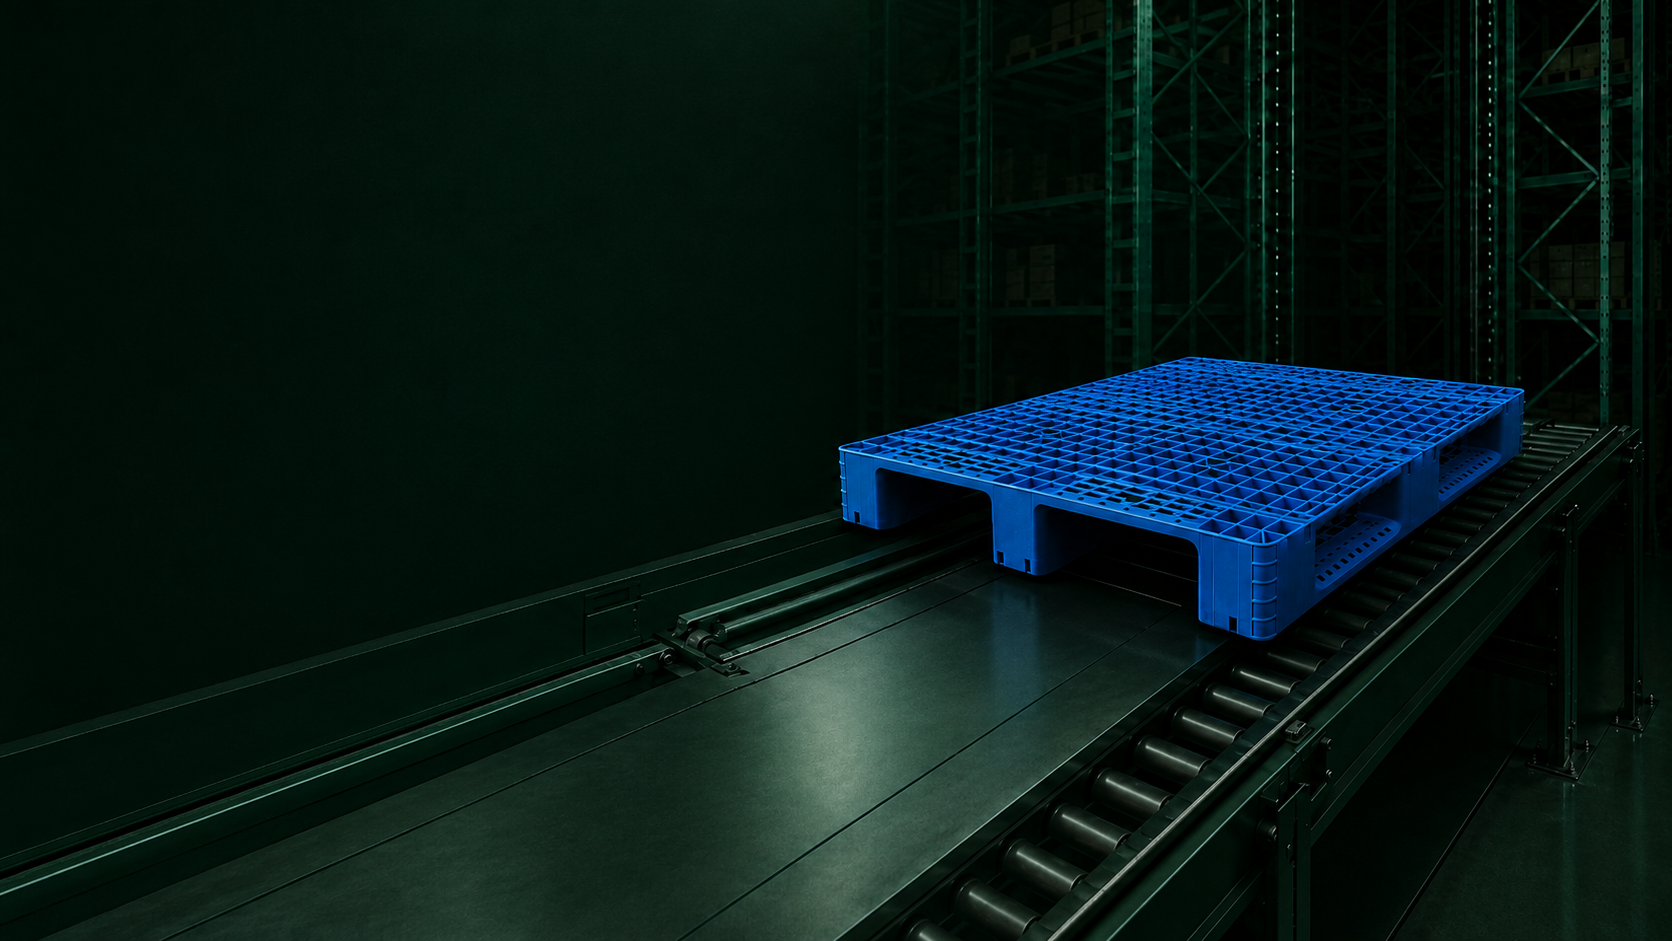
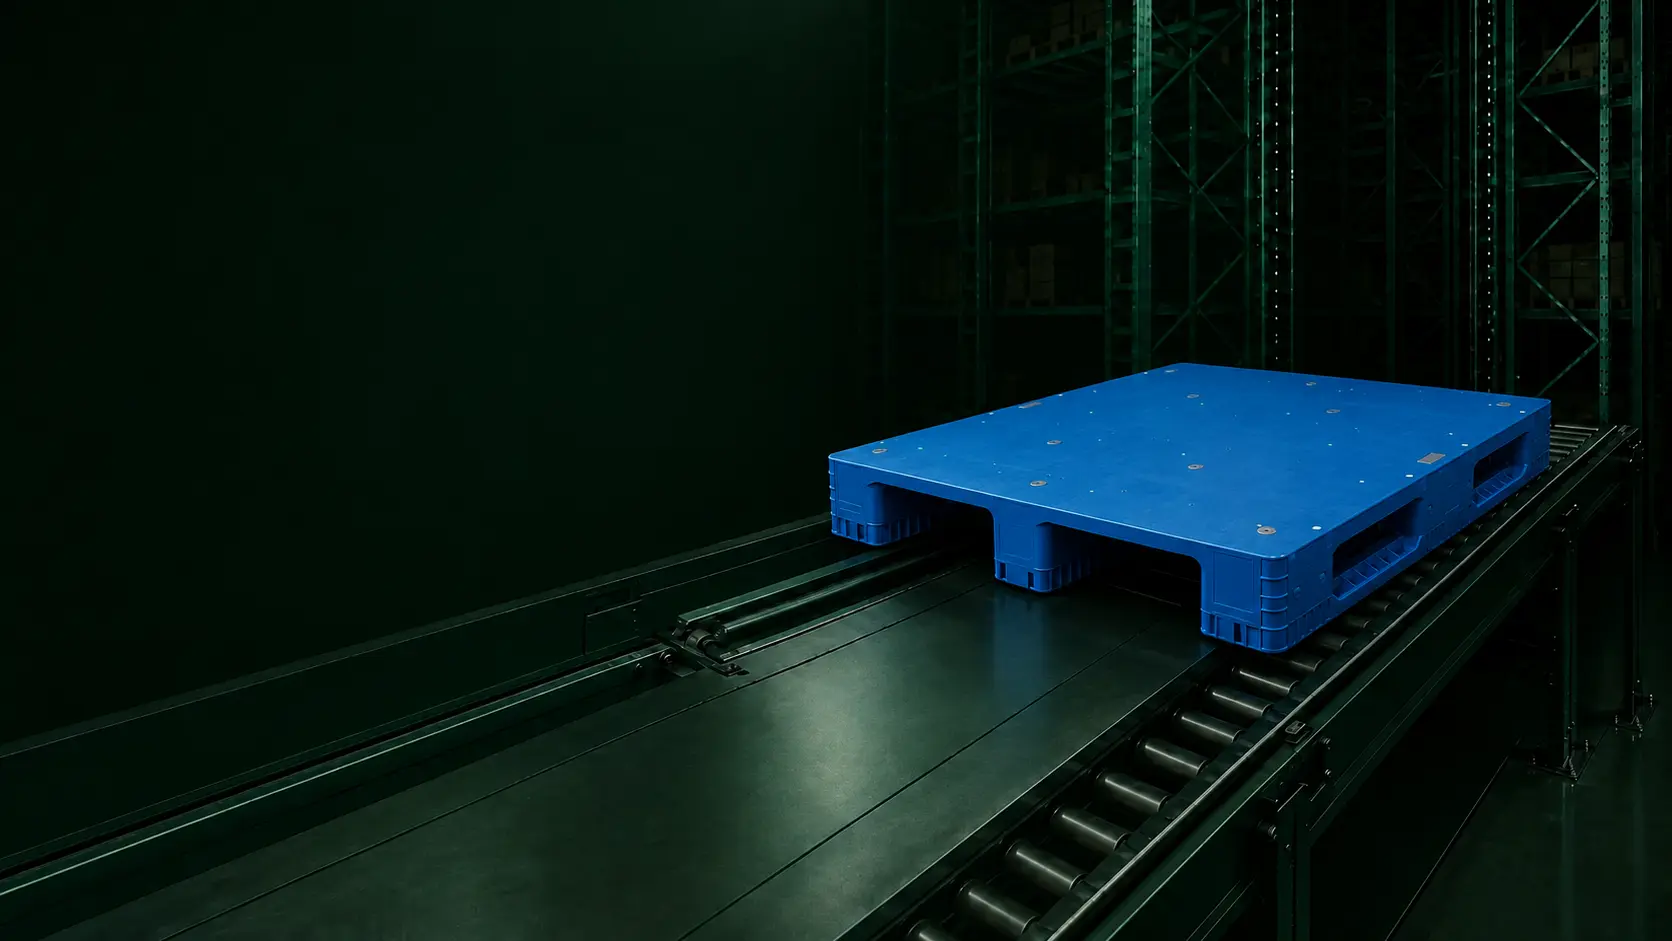
heor

diff --git a/assets/scss/pages/_storack.scss b/assets/scss/pages/_storack.scss
@@ -41,6 +41,21 @@ body { color: var(--on-surface); background: var(--surface); }
   isolation: isolate;
   background: var(--brand-dark);
 }
+.home-hero__slides {
+  position: absolute;
+  inset: 0;
+  display: flex;
+  transition: transform 600ms cubic-bezier(.22,.72,.18,1);
+  will-change: transform;
+  touch-action: pan-y;
+}
+.home-hero__slide {
+  position: relative;
+  flex: 0 0 100%;
+  min-width: 0;
+  height: 100%;
+  isolation: isolate;
+}
 .home-hero__bg {
   position: absolute;
   inset: 0;
@@ -50,7 +65,7 @@ body { color: var(--on-surface); background: var(--surface); }
   object-fit: cover;
   object-position: center;
 }
-.home-hero::before {
+.home-hero__slide::before {
   content: "";
   position: absolute;
   inset: 0;
@@ -62,7 +77,10 @@ body { color: var(--on-surface); background: var(--surface); }
     color-mix(in oklab, var(--brand-dark) 8%, transparent) 82%,
     transparent 100%);
 }
-.home-hero::after {
+.home-hero__slide--center::before {
+  background: color-mix(in oklab, var(--brand-dark) 58%, transparent);
+}
+.home-hero__slide::after {
   content: "";
   position: absolute;
   inset: 0;
@@ -120,6 +138,78 @@ body { color: var(--on-surface); background: var(--surface); }
   flex: 0 0 auto;
   background: var(--accent);
 }
+.home-hero__slide--center .home-hero__inner {
+  align-items: center;
+  text-align: center;
+}
+.home-hero__slide--center .home-hero__lockup {
+  max-width: 68rem;
+}
+.home-hero__slide--center .home-hero__title {
+  width: auto;
+  font-family: var(--font-sans);
+  font-size: clamp(2.25rem, 5vw, 4.75rem);
+  line-height: 1.12;
+  letter-spacing: -.045em;
+  text-transform: none;
+  transform: none;
+}
+.home-hero__slide--center .home-hero__tagline {
+  justify-items: center;
+  max-width: 62rem;
+  margin-inline: auto;
+  line-height: 1.8;
+  letter-spacing: .16em;
+}
+.home-hero__nav {
+  position: absolute;
+  top: 50%;
+  z-index: 3;
+  display: grid;
+  place-items: center;
+  width: 3.5rem;
+  height: 4.5rem;
+  padding: 0;
+  border: 0;
+  background: transparent;
+  color: var(--on-brand);
+  font-size: 3.75rem;
+  font-weight: 300;
+  line-height: 1;
+  cursor: pointer;
+  transform: translateY(-50%);
+  text-shadow: 0 2px 10px rgba(0,0,0,.45);
+}
+.home-hero__nav--prev { left: clamp(.25rem, 2vw, 1.75rem); }
+.home-hero__nav--next { right: clamp(.25rem, 2vw, 1.75rem); }
+.home-hero__dots {
+  position: absolute;
+  left: 50%;
+  bottom: 1.4rem;
+  z-index: 3;
+  display: flex;
+  gap: .7rem;
+  transform: translateX(-50%);
+}
+.home-hero__dot {
+  width: .7rem;
+  height: .7rem;
+  padding: 0;
+  border: 1px solid color-mix(in oklab, var(--on-brand) 75%, transparent);
+  border-radius: 50%;
+  background: transparent;
+  cursor: pointer;
+  transition: background-color var(--transition-base), transform var(--transition-base);
+}
+.home-hero__dot.is-active {
+  background: var(--on-brand);
+  transform: scale(1.15);
+}
+.home-hero__nav:focus-visible,
+.home-hero__dot:focus-visible {
+  outline: 2px solid var(--accent);
+  outline-offset: 3px;
+}
 .home-hero__eyebrow {
   display:inline-flex;
   align-items:center;
@@ -138,17 +228,27 @@ body { color: var(--on-surface); background: var(--surface); }
   .home-hero,
   .home-hero__inner { min-height:40rem; }
   .home-hero__bg { object-position:72% center; }
-  .home-hero::before {
+  .home-hero__slide::before {
     background:linear-gradient(90deg,
       color-mix(in oklab, var(--brand-dark) 74%, transparent) 0%,
       color-mix(in oklab, var(--brand-dark) 62%, transparent) 50%,
       color-mix(in oklab, var(--brand-dark) 32%, transparent) 78%,
       color-mix(in oklab, var(--brand-dark) 12%, transparent) 100%);
   }
+  .home-hero__slide--center::before {
+    background: color-mix(in oklab, var(--brand-dark) 64%, transparent);
+  }
   .home-hero__lockup { max-width:100%; }
   .home-hero__brand { font-size:clamp(4rem,23vw,6.2rem); }
   .home-hero__title { font-size:clamp(1.75rem,10.5vw,2.8rem); }
+  .home-hero__slide--center .home-hero__title { font-size:clamp(2rem,9vw,3.25rem); }
   .home-hero__tagline { max-width:24rem; letter-spacing:.19em; }
+  .home-hero__slide--center .home-hero__tagline { letter-spacing:.08em; }
+  .home-hero__nav { display:none; }
+}
+
+@media (prefers-reduced-motion: reduce) {
+  .home-hero__slides { transition: none; }
 }
 
 .home-values { margin-top:-2.5rem; position:relative; z-index:4; padding-block:0; }

diff --git a/layouts/partials/storack-home.html b/layouts/partials/storack-home.html
@@ -1,19 +1,43 @@
 <main class="home-page">
   {{ with .Params.home_hero }}
-  <section class="home-hero">
-    {{ with index .images 0 }}<img class="home-hero__bg" src="{{ . | relURL }}" alt="" fetchpriority="high">{{ end }}
-    <div class="container home-hero__inner">
-      <div class="home-hero__lockup">
-        <p class="home-hero__brand">{{ .brand | default "STORACK" }}</p>
-        <h1 class="home-hero__title">{{ .display_title | default "AS/RS PLASTIC PALLETS" }}</h1>
-        <p class="home-hero__tagline">{{ .display_tagline | default "ENGINEERED FOR AUTOMATION" }}</p>
-      </div>
-      <div class="home-hero__actions">
-        <a class="button" href="{{ .button.url | relLangURL }}">{{ .button.label }}</a>
-        {{ with .secondary_button }}<a class="button button--ghost" href="{{ .url | relLangURL }}">{{ .label }}</a>{{ end }}
-      </div>
+  {{ $hero := . }}
+  {{ $slides := .slides }}
+  <section class="home-hero" data-home-hero aria-roledescription="{{ if eq $.Lang "zh" }}轮播{{ else }}carousel{{ end }}" aria-label="{{ if eq $.Lang "zh" }}首页主视觉{{ else }}Homepage highlights{{ end }}">
+    <div class="home-hero__slides" data-home-hero-track aria-live="off">
+      {{ range $index, $slide := $slides }}
+      <article id="home-hero-slide-{{ $index }}" class="home-hero__slide home-hero__slide--{{ .alignment | default "left" }}{{ if eq $index 0 }} is-active{{ end }}" data-home-hero-slide aria-hidden="{{ if eq $index 0 }}false{{ else }}true{{ end }}" aria-label="{{ if eq $.Lang "zh" }}第 {{ add $index 1 }} 张，共 {{ len $slides }} 张{{ else }}Slide {{ add $index 1 }} of {{ len $slides }}{{ end }}"{{ if ne $index 0 }} inert{{ end }}>
+        <img class="home-hero__bg" src="{{ .image | relURL }}" alt=""{{ if eq $index 0 }} fetchpriority="high"{{ else }} loading="lazy"{{ end }}>
+        <div class="container home-hero__inner">
+          <div class="home-hero__lockup">
+            {{ with .brand }}<p class="home-hero__brand">{{ . }}</p>{{ end }}
+            {{ if eq $index 0 }}
+            <h1 class="home-hero__title">{{ .title }}</h1>
+            {{ else }}
+            <p class="home-hero__title">{{ .title }}</p>
+            {{ end }}
+            <p class="home-hero__tagline">{{ .tagline }}</p>
+          </div>
+          {{ if .show_actions }}
+          <div class="home-hero__actions">
+            <a class="button" href="{{ $hero.button.url | relLangURL }}">{{ $hero.button.label }}</a>
+            {{ with $hero.secondary_button }}<a class="button button--ghost" href="{{ .url | relLangURL }}">{{ .label }}</a>{{ end }}
+          </div>
+          {{ end }}
+        </div>
+      </article>
+      {{ end }}
     </div>
+    {{ if gt (len $slides) 1 }}
+    <button class="home-hero__nav home-hero__nav--prev" type="button" data-home-hero-prev aria-label="{{ if eq $.Lang "zh" }}上一张{{ else }}Previous slide{{ end }}">&#8249;</button>
+    <button class="home-hero__nav home-hero__nav--next" type="button" data-home-hero-next aria-label="{{ if eq $.Lang "zh" }}下一张{{ else }}Next slide{{ end }}">&#8250;</button>
+    <div class="home-hero__dots" role="group" aria-label="{{ if eq $.Lang "zh" }}选择轮播页{{ else }}Choose a slide{{ end }}">
+      {{ range $index, $slide := $slides }}
+      <button class="home-hero__dot{{ if eq $index 0 }} is-active{{ end }}" type="button" data-home-hero-dot data-slide-index="{{ $index }}" aria-label="{{ if eq $.Lang "zh" }}显示第 {{ add $index 1 }} 张{{ else }}Show slide {{ add $index 1 }}{{ end }}" aria-controls="home-hero-slide-{{ $index }}" aria-current="{{ if eq $index 0 }}true{{ else }}false{{ end }}"></button>
+      {{ end }}
+      </div>
+    {{ end }}
   </section>
+  <script src="{{ "js/home-hero.js" | relURL }}" defer></script>
   {{ end }}
 
   {{ with .Params.home_values }}

diff --git a/static/js/home-hero.js b/static/js/home-hero.js
@@ -1,0 +1,79 @@
+(() => {
+  const reducedMotion = window.matchMedia('(prefers-reduced-motion: reduce)');
+
+  document.querySelectorAll('[data-home-hero]').forEach((hero) => {
+    const track = hero.querySelector('[data-home-hero-track]');
+    const slides = [...hero.querySelectorAll('[data-home-hero-slide]')];
+    const dots = [...hero.querySelectorAll('[data-home-hero-dot]')];
+    const previous = hero.querySelector('[data-home-hero-prev]');
+    const next = hero.querySelector('[data-home-hero-next]');
+
+    if (!track || slides.length < 2) return;
+
+    let current = 0;
+    let timer;
+    let pointerStart;
+    let isHovered = false;
+    let isFocusWithin = false;
+
+    const show = (index) => {
+      current = (index + slides.length) % slides.length;
+      track.style.transform = `translate3d(-${current * 100}%, 0, 0)`;
+
+      slides.forEach((slide, slideIndex) => {
+        const isActive = slideIndex === current;
+        slide.classList.toggle('is-active', isActive);
+        slide.setAttribute('aria-hidden', String(!isActive));
+        slide.inert = !isActive;
+      });
+
+      dots.forEach((dot, dotIndex) => {
+        const isActive = dotIndex === current;
+        dot.classList.toggle('is-active', isActive);
+        dot.setAttribute('aria-current', String(isActive));
+      });
+    };
+
+    const stop = () => window.clearInterval(timer);
+    const start = () => {
+      stop();
+      if (reducedMotion.matches || document.hidden || isHovered || isFocusWithin) return;
+      timer = window.setInterval(() => show(current + 1), 6000);
+    };
+    const select = (index) => {
+      show(index);
+      start();
+    };
+
+    previous.addEventListener('click', () => select(current - 1));
+    next.addEventListener('click', () => select(current + 1));
+    dots.forEach((dot) => dot.addEventListener('click', () => select(Number(dot.dataset.slideIndex))));
+
+    hero.addEventListener('keydown', (event) => {
+      if (event.key === 'ArrowLeft') select(current - 1);
+      if (event.key === 'ArrowRight') select(current + 1);
+    });
+    hero.addEventListener('mouseenter', () => { isHovered = true; stop(); });
+    hero.addEventListener('mouseleave', () => { isHovered = false; start(); });
+    hero.addEventListener('focusin', () => { isFocusWithin = true; stop(); });
+    hero.addEventListener('focusout', (event) => {
+      if (hero.contains(event.relatedTarget)) return;
+      isFocusWithin = false;
+      start();
+    });
+
+    track.addEventListener('pointerdown', (event) => { pointerStart = event.clientX; });
+    track.addEventListener('pointerup', (event) => {
+      if (pointerStart === undefined) return;
+      const distance = event.clientX - pointerStart;
+      pointerStart = undefined;
+      if (Math.abs(distance) > 50) select(current + (distance < 0 ? 1 : -1));
+    });
+    track.addEventListener('pointercancel', () => { pointerStart = undefined; });
+
+    document.addEventListener('visibilitychange', start);
+    reducedMotion.addEventListener('change', start);
+    show(0);
+    start();
+  });
+})();

diff --git a/content/en/_index.md b/content/en/_index.md
@@ -2,10 +2,17 @@
 title: "Storack | AS/RS Plastic Pallets"
 description: "Rack-ready HDPE plastic pallets for automated storage and retrieval systems, with steel reinforcement and project-specific configuration support."
 home_hero:
-  images: ["images/company/background.webp"]
-  brand: "STORACK"
-  display_title: "AS/RS PLASTIC PALLETS"
-  display_tagline: "ENGINEERED FOR AUTOMATION"
+  slides:
+    - image: "images/company/background0.webp"
+      title: "Dedicated to AS/RS Plastic Pallets, Delivering Safe, Durable Load-Carrying Solutions for Smart Warehousing."
+      tagline: "Quality First | Customer Focus | Circular by Design | Success Through Integrity"
+      alignment: "center"
+    - image: "images/company/background.webp"
+      brand: "STORACK"
+      title: "AS/RS PLASTIC PALLETS"
+      tagline: "ENGINEERED FOR AUTOMATION"
+      alignment: "left"
+      show_actions: true
   button: { label: "Explore pallet families", url: "/product/" }
   secondary_button: { label: "Send your requirements", url: "/contact/" }
 home_values:

diff --git a/content/zh/_index.md b/content/zh/_index.md
@@ -2,7 +2,17 @@
 title: "Storack｜立体库塑料托盘"
 description: "面向自动化立体仓库的 HDPE 塑料托盘，支持钢管加强与按项目配置。"
 home_hero:
-  images: ["images/company/background.webp"]
+  slides:
+    - image: "images/company/background0.webp"
+      title: "专注立体库塑料托盘，为智能仓储提供安全耐用的载具解决方案。"
+      tagline: "品质为本｜客户为先｜绿色循环｜诚信共赢"
+      alignment: "center"
+    - image: "images/company/background.webp"
+      brand: "STORACK"
+      title: "AS/RS PLASTIC PALLETS"
+      tagline: "ENGINEERED FOR AUTOMATION"
+      alignment: "left"
+      show_actions: true
   eyebrow: "为自动化而设计的托盘"
   title: "稳定的托盘，是立体库可靠运行的基础。"
   description: "Storack 专注注塑 HDPE 立体库塑料托盘。我们协助集成商与仓储运营方在量产前确认结构、挠度、货架接口与钢管加强方案。"
